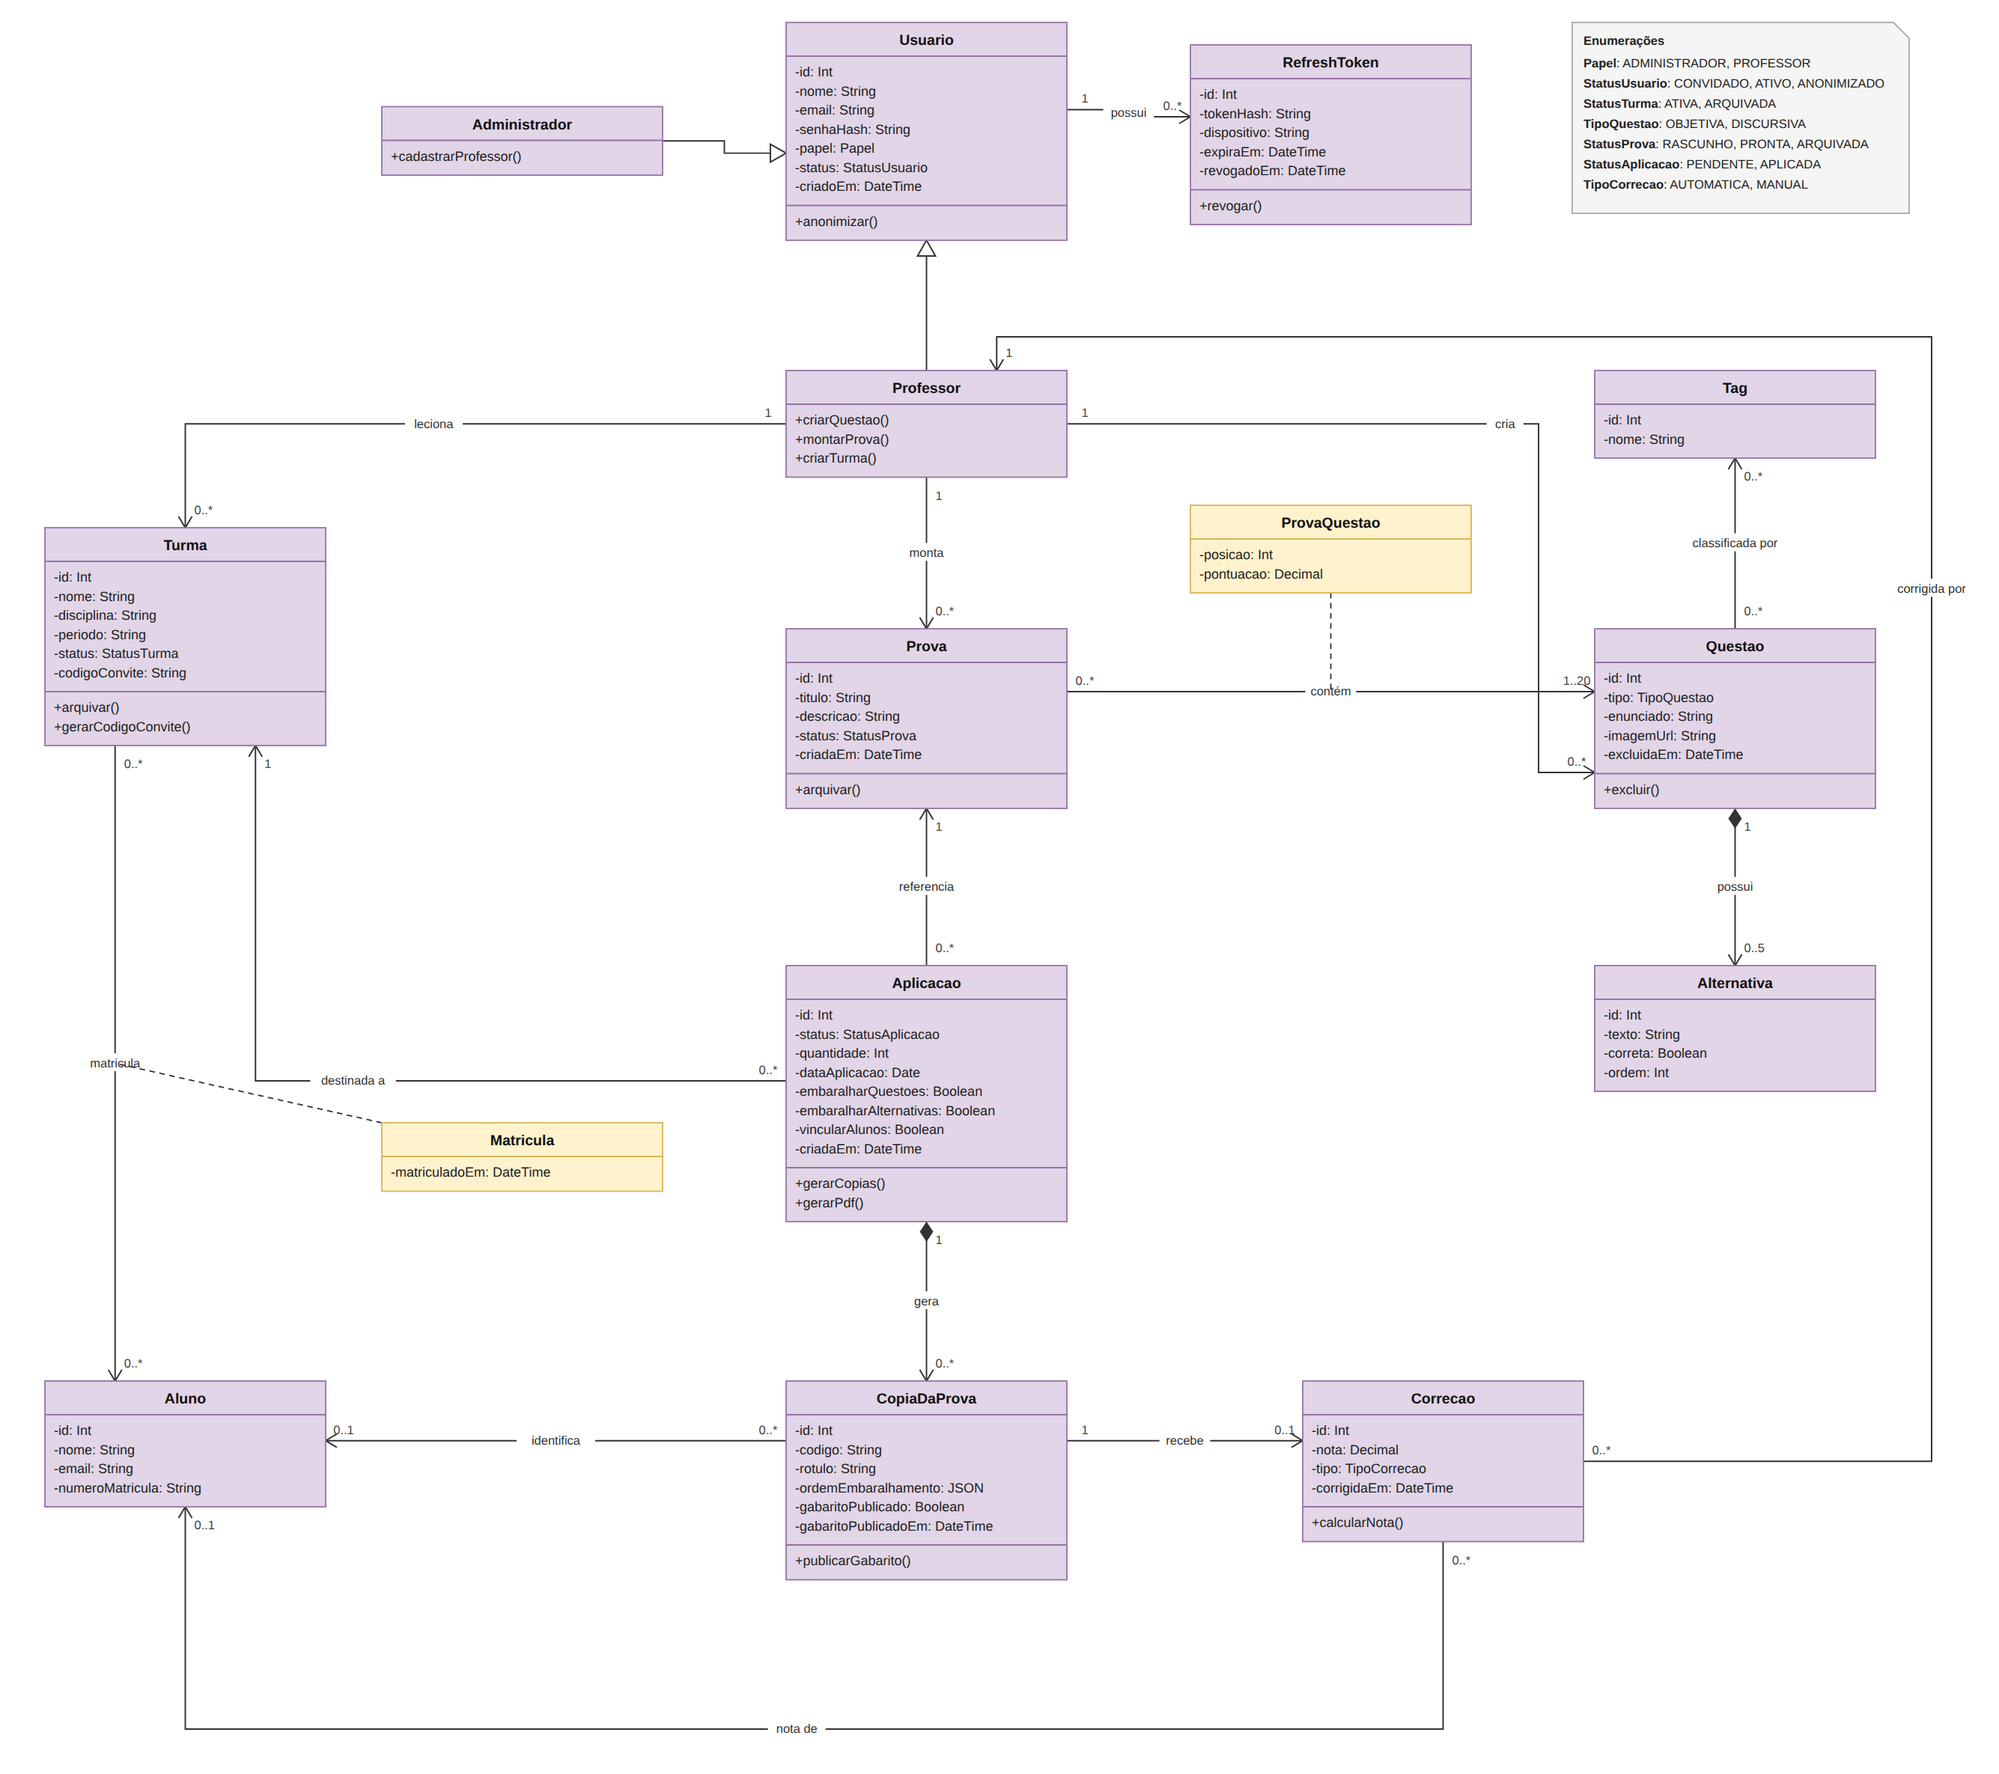
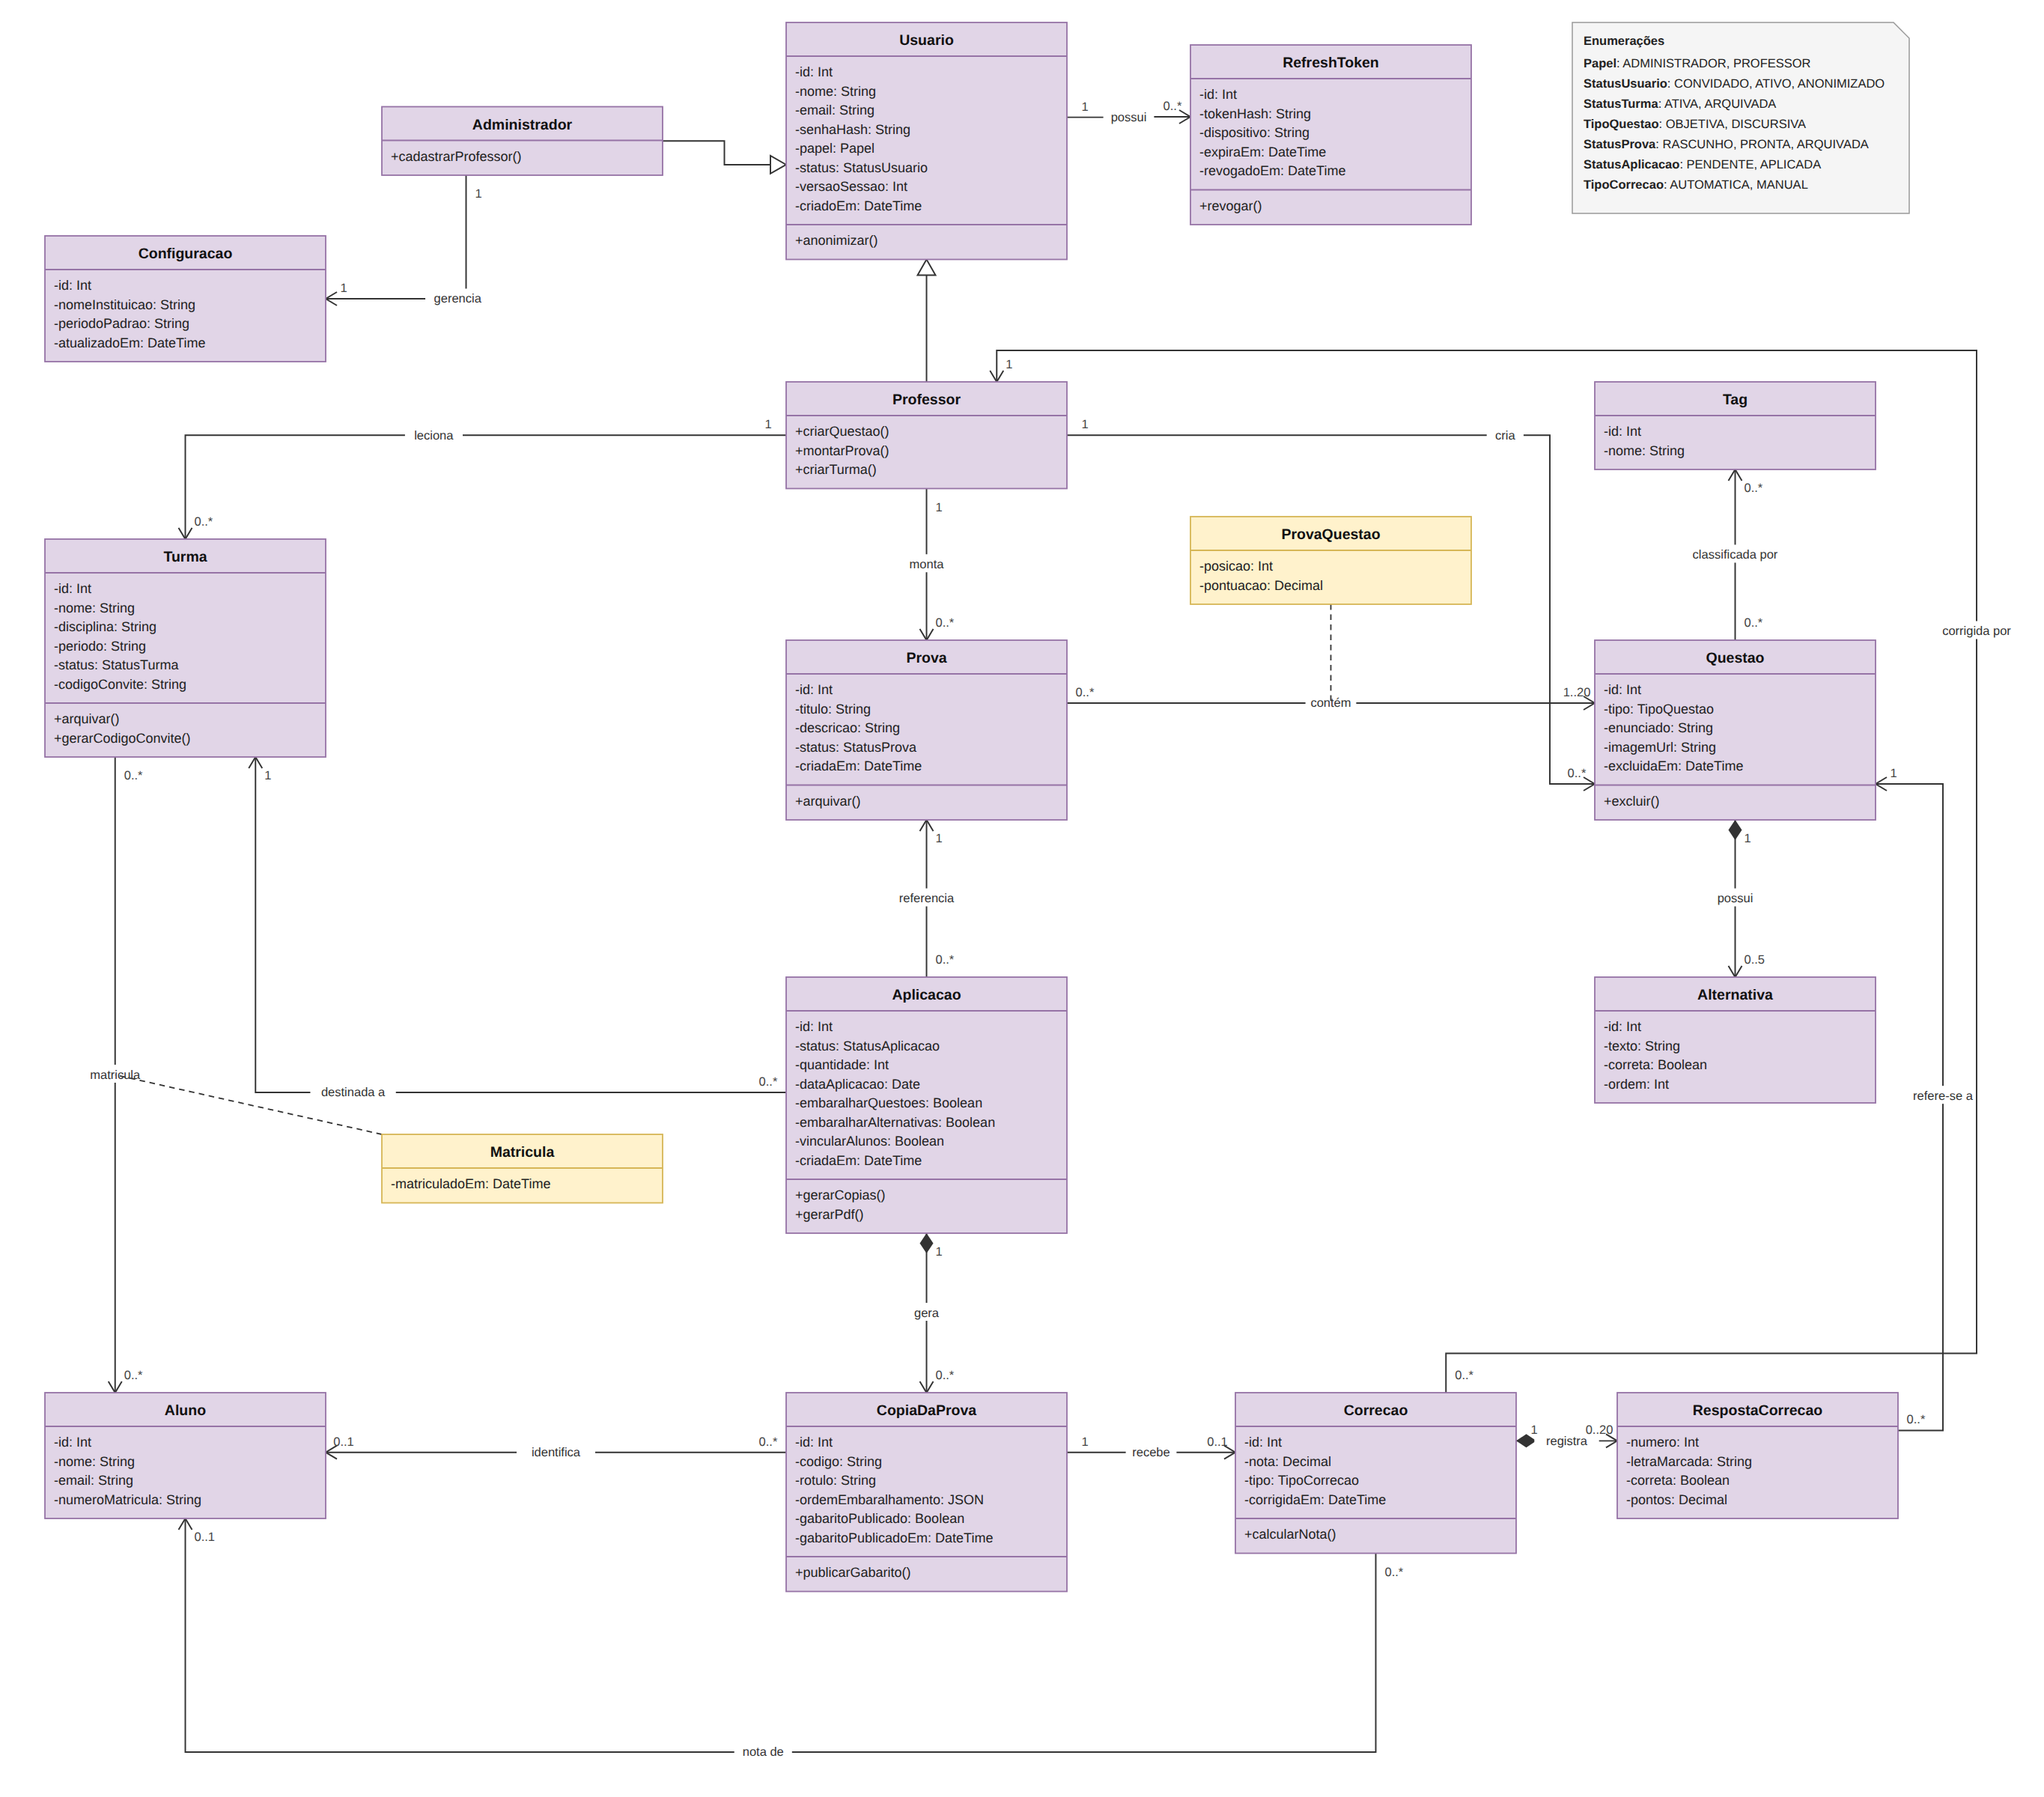
docs: add configuration and grading answers to domain classes

diff --git a/docs/uml/README.md b/docs/uml/README.md
@@ -14,8 +14,9 @@ Classes de domínio do **Sistema de Geração de Provas (SGP)**, alinhadas ao mo
 
 | Classe | Atributos | Operações | Tabela no DER |
 |---|---|---|---|
-| **Usuario** | `id: Int`, `nome: String`, `email: String`, `senhaHash: String`, `papel: Papel`, `status: StatusUsuario`, `criadoEm: DateTime` | `anonimizar()` | `usuario` (coluna `papel`) |
+| **Usuario** | `id: Int`, `nome: String`, `email: String`, `senhaHash: String`, `papel: Papel`, `status: StatusUsuario`, `versaoSessao: Int`, `criadoEm: DateTime` | `anonimizar()` | `usuario` (coluna `papel`) |
 | **Administrador** | — (herda de Usuario) | `cadastrarProfessor()` | `usuario` (papel = ADMINISTRADOR) |
+| **Configuracao** | `id: Int`, `nomeInstituicao: String`, `periodoPadrao: String`, `atualizadoEm: DateTime` | — | `configuracoes` |
 | **RefreshToken** | `id: Int`, `tokenHash: String`, `dispositivo: String`, `expiraEm: DateTime`, `revogadoEm: DateTime` | `revogar()` | `refresh_token` |
 | **Professor** | — (herda de Usuario) | `criarQuestao()`, `montarProva()`, `criarTurma()` | `usuario` (papel = PROFESSOR) |
 | **Turma** | `id: Int`, `nome: String`, `disciplina: String`, `periodo: String`, `status: StatusTurma`, `codigoConvite: String` | `arquivar()`, `gerarCodigoConvite()` | `turma` |
@@ -29,6 +30,7 @@ Classes de domínio do **Sistema de Geração de Provas (SGP)**, alinhadas ao mo
 | **Matricula** | `matriculadoEm: DateTime` | — | `matricula` |
 | **CopiaDaProva** | `id: Int`, `codigo: String`, `rotulo: String`, `ordemEmbaralhamento: JSON`, `gabaritoPublicado: Boolean`, `gabaritoPublicadoEm: DateTime` | `publicarGabarito()` | `copia_prova` |
 | **Correcao** | `id: Int`, `nota: Decimal`, `tipo: TipoCorrecao`, `corrigidaEm: DateTime` | `calcularNota()` | `correcao` |
+| **RespostaCorrecao** | `numero: Int`, `letraMarcada: String`, `correta: Boolean`, `pontos: Decimal` | — | `correcao_resposta` |
 
 Classes em amarelo no diagrama são **classes de associação**: guardam dados da própria relação (a pontuação da questão naquela prova, a data da matrícula).
 
@@ -50,6 +52,7 @@ Classes em amarelo no diagrama são **classes de associação**: guardam dados d
 |---|---|---|
 | Professor → Usuario | Generalização | — |
 | Administrador → Usuario | Generalização | — |
+| Administrador → Configuracao (*gerencia*) | Associação | 1 → 1 |
 | Usuario → RefreshToken (*possui*) | Associação | 1 → 0..* |
 | Professor → Turma (*leciona*) | Associação | 1 → 0..* |
 | Professor → Prova (*monta*) | Associação | 1 → 0..* |
@@ -65,6 +68,8 @@ Classes em amarelo no diagrama são **classes de associação**: guardam dados d
 | CopiaDaProva → Correcao (*recebe*) | Associação | 1 → 0..1 |
 | Correcao → Aluno (*nota de*) | Associação | 0..* → 0..1 |
 | Correcao → Professor (*corrigida por*) | Associação | 0..* → 1 |
+| Correcao → RespostaCorrecao (*registra*) | Composição | 1 → 0..20 |
+| RespostaCorrecao → Questao (*refere-se a*) | Associação | 0..* → 1 |
 
 ## Decisões de modelagem
 
@@ -73,6 +78,9 @@ Classes em amarelo no diagrama são **classes de associação**: guardam dados d
 - **Composição:** Alternativa só existe dentro da sua Questao (no máximo 5; nenhuma nas discursivas) e CopiaDaProva só existe dentro da sua Aplicacao. Apagar o todo apaga as partes (`ON DELETE CASCADE` no DER).
 - **Prova contém de 1 a 20 questões**, com posição e pontuação próprias em cada prova (classe de associação ProvaQuestao); a mesma questão pode estar em várias provas.
 - **Uma correção por cópia** (0..1). A nota pertence a um aluno: o da cópia nominal ou, nas provas sem identificação, o aluno escolhido pelo professor no lançamento manual.
+- **Respostas da correção:** a correção pelas respostas guarda uma RespostaCorrecao por questão (letra marcada, acerto e pontos). O lançamento manual guarda só a nota.
+- **Configuração única:** Configuracao tem um único registro com os dados gerais do sistema, mantido pelo Administrador.
+- **versaoSessao:** ao mudar, invalida os tokens de acesso já emitidos para o usuário.
 - **Status como enumerações**, com os mesmos valores dos `ENUM` do banco.
 
 ## Visualização em Mermaid
@@ -88,6 +96,7 @@ classDiagram
         -String senhaHash
         -Papel papel
         -StatusUsuario status
+        -Int versaoSessao
         -DateTime criadoEm
         +anonimizar()
     }
@@ -177,6 +186,18 @@ classDiagram
         -DateTime gabaritoPublicadoEm
         +publicarGabarito()
     }
+    class Configuracao {
+        -Int id
+        -String nomeInstituicao
+        -String periodoPadrao
+        -DateTime atualizadoEm
+    }
+    class RespostaCorrecao {
+        -Int numero
+        -String letraMarcada
+        -Boolean correta
+        -Decimal pontos
+    }
     class Correcao {
         -Int id
         -Decimal nota
@@ -201,6 +222,9 @@ classDiagram
     CopiaDaProva "1" --> "0..1" Correcao : recebe
     Correcao "0..*" --> "0..1" Aluno : nota de
     Correcao "0..*" --> "1" Professor : corrigida por
+    Administrador "1" --> "1" Configuracao : gerencia
+    Correcao "1" *-- "0..20" RespostaCorrecao : registra
+    RespostaCorrecao "0..*" --> "1" Questao : refere-se a
     Prova .. ProvaQuestao
     ProvaQuestao .. Questao
     Turma .. Matricula
